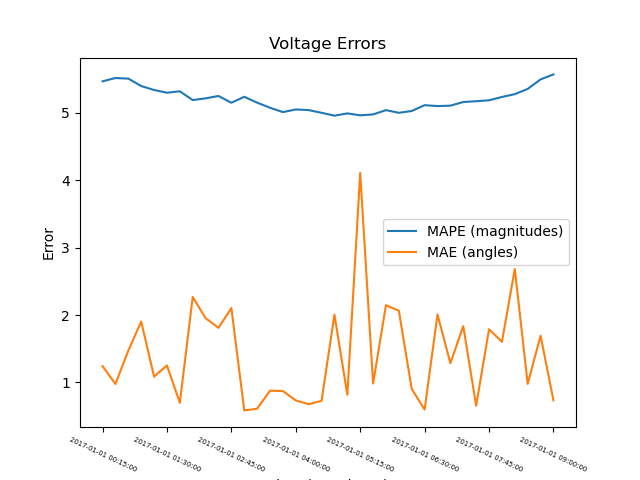
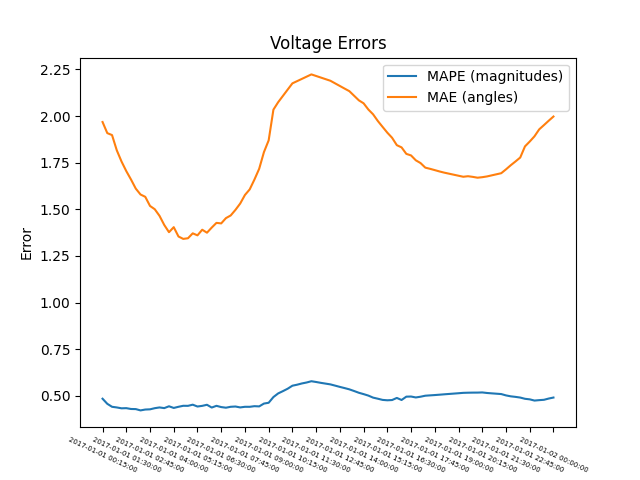
updating to include PQ values in the topology using base values

diff --git a/LocalFeeder/sender_cosim.py b/LocalFeeder/sender_cosim.py
@@ -9,11 +9,11 @@ from pydantic import BaseModel
 from typing import List, Tuple
 import numpy as np
 from datetime import datetime, timedelta
-from gadal.gadal_types.data_types import Complex,Topology,VoltagesReal,VoltagesImaginary,PowersReal,PowersImaginary, AdmittanceMatrix, VoltagesMagnitude, VoltagesAngle
+from gadal.gadal_types.data_types import Complex,Topology,VoltagesReal,VoltagesImaginary,PowersReal,PowersImaginary, AdmittanceMatrix, VoltagesMagnitude, VoltagesAngle, Injection
 
 logger = logging.getLogger(__name__)
 logger.addHandler(logging.StreamHandler())
-logger.setLevel(logging.INFO)
+logger.setLevel(logging.DEBUG)
 
 test_se = False
 
@@ -99,6 +99,7 @@ def go_cosim(sim, config: FeederConfig):
     ]
 
     unique_ids = sim._AllNodeNames
+    snapshot_run(sim)
 
     logger.debug("y-matrix")
     logger.debug(y_matrix)
@@ -125,11 +126,32 @@ def go_cosim(sim, config: FeederConfig):
            values = phases,
            ids = unique_ids
     )
+    all_PQs = {}
+    all_PQs['load'] = sim.get_PQs_load(static=True) # Return type is PQ_values, PQ_names, PQ_types all with same size
+    all_PQs['pv'] = sim.get_PQs_pv(static=True)
+    all_PQs['gen'] = sim.get_PQs_gen(static=True)
+    all_PQs['cap'] = sim.get_PQs_cap(static=True)
 
+    PQ_injections_all = all_PQs['load'][0]+ all_PQs['pv'][0] + all_PQs['gen'][0]+ all_PQs['cap'][0]
+    PQ_real = []
+    PQ_imaginary = []
+    PQ_names = []
+    PQ_types = []
+    for i in range(len(all_PQs['load'][0])):
+        for key in all_PQs:
+            if all_PQs[key][1][i] !='':
+                PQ_real.append(-1*all_PQs[key][0][i].real) # injections are negative singe PQ values are positive
+                PQ_imaginary.append(-1*all_PQs[key][0][i].imag) # injections are negative singe PQ values are positive
+                PQ_names.append(all_PQs[key][1][i])
+                PQ_types.append(all_PQs[key][2][i])
+    power_real = PowersReal(ids = PQ_names, values = PQ_real, equipment_type = PQ_types)
+    power_imaginary = PowersImaginary(ids = PQ_names, values = PQ_imaginary, equipment_type = PQ_types)
+    injections = Injection(power_real=power_real, power_imaginary = power_imaginary)
+ 
     topology = Topology(
         admittance=admittancematrix,
         base_voltage_angles=base_voltageangle,
-        injections={},
+        injections=injections,
         base_voltage_magnitudes=base_voltagemagnitude,
         slack_bus=slack_bus,
     )
@@ -139,7 +161,6 @@ def go_cosim(sim, config: FeederConfig):
         f.write(topology.json())
     pub_topology.publish(topology.json())
 
-    snapshot_run(sim)
 
     granted_time = -1
     current_hour = 0
@@ -161,7 +182,26 @@ def go_cosim(sim, config: FeederConfig):
         sim.solve(current_hour,current_second)
 
         feeder_voltages = sim.get_voltages_actual()
-        PQ_injections_all,PQ_names_all,PQ_types_all = sim.get_PQs()
+        all_PQs = {}
+        all_PQs['load'] = sim.get_PQs_load(static=False) # Return type is PQ_values, PQ_names, PQ_types all with same size
+        all_PQs['pv'] = sim.get_PQs_pv(static=False)
+        all_PQs['gen'] = sim.get_PQs_gen(static=False)
+        all_PQs['cap'] = sim.get_PQs_cap(static=False)
+    
+        PQ_injections_all = all_PQs['load'][0]+ all_PQs['pv'][0] + all_PQs['gen'][0]+ all_PQs['cap'][0]
+        PQ_real = []
+        PQ_imaginary = []
+        PQ_names = []
+        PQ_types = []
+        for i in range(len(all_PQs['load'][0])):
+            for key in all_PQs:
+                if all_PQs[key][1][i] !='':
+                    PQ_real.append(-1*all_PQs[key][0][i].real) # injections are negative singe PQ values are positive
+                    PQ_imaginary.append(-1*all_PQs[key][0][i].imag) # injections are negative singe PQ values are positive
+                    PQ_names.append(all_PQs[key][1][i])
+                    PQ_types.append(all_PQs[key][2][i])
+
+
 
         logger.debug("Feeder Voltages")
         logger.debug(feeder_voltages)
@@ -171,11 +211,11 @@ def go_cosim(sim, config: FeederConfig):
         Cal_power = feeder_voltages * (Y.conjugate() @ feeder_voltages.conjugate()) / 1000
         errors = PQ_injections_all + Cal_power
         sort_errors = np.sort(np.abs(errors))
+        logger.debug("errors")
+        logger.debug(errors)
         if np.any(sort_errors[:-3] > 1):
             raise ValueError('Power balance does not hold')
         PQ_injections_all[sim._source_indexes] = -Cal_power[sim._source_indexes]
-        logger.debug("errors")
-        logger.debug(errors)
         power_balance = (feeder_voltages * (Y.conjugate() @ feeder_voltages.conjugate()) / 1000)
         logger.debug(power_balance)
         indices, = np.nonzero(np.abs(errors) > 1)
@@ -194,17 +234,6 @@ def go_cosim(sim, config: FeederConfig):
            values = phases,
            ids = unique_ids
         )
-
-        PQ_real = []
-        PQ_imaginary = []
-        PQ_names = []
-        PQ_types = []
-        for i in range(len(PQ_injections_all)):
-            if PQ_injections_all[i] != 0:
-                PQ_real.append(PQ_injections[i].real)
-                PQ_imaginary.append(PQ_injections[i].imag)
-                PQ_names.append(PQ_names_all[i])
-                PQ_types.append(PQ_types_all[i])
         power_real = PowersReal(ids = PQ_names, values = PQ_real, equipment_type = PQ_types)
         power_imaginary = PowersImaginary(ids = PQ_names, values = PQ_imaginary, equipment_type = PQ_types)
         injections = Injection(power_real=power_real, power_imaginary = power_imaginary)

diff --git a/LocalFeeder/FeederSimulator.py b/LocalFeeder/FeederSimulator.py
@@ -196,63 +196,95 @@ class FeederSimulator(object):
         Vnom = np.abs(Vnom)
         return Vnom
 
-    def get_PQs(self):
+    def get_PQs_load(self,static=False):
         num_nodes = len(self._name_index_dict.keys())
 
-        PQ_names_all = ['' for i in len(num_nodes)]
-        PQ_types_all = ['' for i in len(num_nodes)]
+        PQ_names= ['' for i in range(num_nodes)]
+        PQ_types= ['' for i in range(num_nodes)]
         PQ_load = np.zeros((num_nodes), dtype=np.complex_)
         for ld in get_loads(dss,self._circuit):
+            self._circuit.SetActiveElement('Load.' + ld["name"])
             for ii in range(len(ld['phases'])):
                 name = ld['bus1'].upper() + '.' + ld['phases'][ii]
                 index = self._name_index_dict[name]
-                self._circuit.SetActiveElement('Load.' + ld["name"])
-                power = dss.CktElement.Powers()
-                PQ_load[index] += np.complex(power[2 * ii], power[2 * ii + 1])
-                PQ_names_all[index] = name
-                PQ_types_all[index] = 'Load'
+                if static:
+                    power = complex(ld['kW'],ld['kVar'])
+                    PQ_load[index] += power/len(ld['phases'])
+                else:
+                    power = dss.CktElement.Powers()
+                    PQ_load[index] += np.complex(power[2 * ii], power[2 * ii + 1])
+                PQ_names[index] = name
+                PQ_types[index] = 'Load'
 
+        return PQ_load,PQ_names,PQ_types
+
+    def get_PQs_pv(self,static=False):
+        num_nodes = len(self._name_index_dict.keys())
+
+        PQ_names= ['' for i in range(num_nodes)]
+        PQ_types= ['' for i in range(num_nodes)]
         PQ_PV = np.zeros((num_nodes), dtype=np.complex_)
         for PV in get_pvSystems(dss):
             bus = PV["bus"].split('.')
             if len(bus) == 1:
                 bus = bus + ['1', '2', '3']
             self._circuit.SetActiveElement('PVSystem.'+PV["name"])
-            power = dss.CktElement.Powers()
             for ii in range(len(bus) - 1):
                 name = bus[0].upper() + '.' + bus[ii + 1]
                 index = self._name_index_dict[name]
-                PQ_PV[index] += np.complex(power[2 * ii], power[2 * ii + 1])
-                PQ_names_all[index] = name
-                PQ_types_all[index] = 'PVSystem'
+                if static:
+                    power = complex(-1*PV['kW'],-1*PV['kVar']) #-1 because injecting
+                    PQ_PV[index] += power/(len(bus)-1)
+                else:
+                    power = dss.CktElement.Powers()
+                    PQ_PV[index] += np.complex(power[2 * ii], power[2 * ii + 1])
+                PQ_names[index] = name
+                PQ_types[index] = 'PVSystem'
+        return PQ_PV,PQ_names,PQ_types
 
+    def get_PQs_gen(self,static=False):
+        num_nodes = len(self._name_index_dict.keys())
+
+        PQ_names= ['' for i in range(num_nodes)]
+        PQ_types= ['' for i in range(num_nodes)]
         PQ_gen = np.zeros((num_nodes), dtype=np.complex_)
-        PQ_gen_all = np.zeros((num_nodes), dtype=np.complex_)
         for PV in get_Generator(dss):
             bus = PV["bus"]
             self._circuit.SetActiveElement('Generator.'+PV["name"])
-            power = dss.CktElement.Powers()
             for ii in range(len(bus) - 1):
                 name = bus[0].upper() + '.' + bus[ii + 1]
                 index = self._name_index_dict[name]
-                PQ_gen_all[index] += np.complex(power[2 * ii], power[2 * ii + 1])
-                PQ_gen[index] += np.complex(power[2 * ii], power[2 * ii + 1])
-                PQ_names_all[index] = name
-                PQ_types_all[index] = 'Generator'
+                if static:
+                    power = complex(-1*PV['kW'],-1*PV['kVar']) #-1 because injecting
+                    PQ_gen[index] += power/(len(bus)-1)
+                else:
+                    power = dss.CktElement.Powers()
+                    PQ_gen[index] += np.complex(power[2 * ii], power[2 * ii + 1])
+                PQ_names[index] = name
+                PQ_types[index] = 'Generator'
+        return PQ_gen,PQ_names,PQ_types
 
-        Qcap = [0] * num_nodes
+    def get_PQs_cap(self,static=False):
+        num_nodes = len(self._name_index_dict.keys())
+
+        PQ_names= ['' for i in range(num_nodes)]
+        PQ_types= ['' for i in range(num_nodes)]
+        PQ_cap = np.zeros((num_nodes), dtype=np.complex_)
         for cap in get_capacitors(dss):
             for ii in range(cap["numPhases"]):
                 name = cap["busname"].upper() + '.' + cap["busphase"][ii]
                 index = self._name_index_dict[name]
-                Qcap[index] = cap["power"][2 * ii + 1]
-                PQ_names_all[index] = name
-                PQ_types_all[index] = 'Capacitor'
+                if static:
+                    power = complex(0,-1*cap['kVar']) #-1 because it's injected into the grid
+                    PQ_cap[index] += power/cap["numPhases"]
+                else:
+                    PQ_cap[index] = np.complex(0,cap["power"][2 * ii + 1])
+                PQ_names[index] = name
+                PQ_types[index] = 'Capacitor'
 
-        PQ_injections_all = PQ_load + PQ_PV + PQ_gen + 1j * np.array(Qcap)  # power injection
+        return PQ_cap,PQ_names,PQ_types
 
 
-        return PQ_injections_all,PQ_names_all,PQ_types_all
 
 
     def get_loads(self):

diff --git a/LocalFeeder/dss_functions.py b/LocalFeeder/dss_functions.py
@@ -277,7 +277,7 @@ def get_capacitors(dss):
         capname = dss.CktElement.Name()
         NumPhase = dss.CktElement.NumPhases()
         bus = dss.CktElement.BusNames()[0]
-        kvar = dss.run_command('? ' + capname + '.kVar')
+        kvar = dss.Capacitors.kvar()
         datum["name"] = capname
         temp = bus.split('.')
         datum["busname"] = temp[0]
